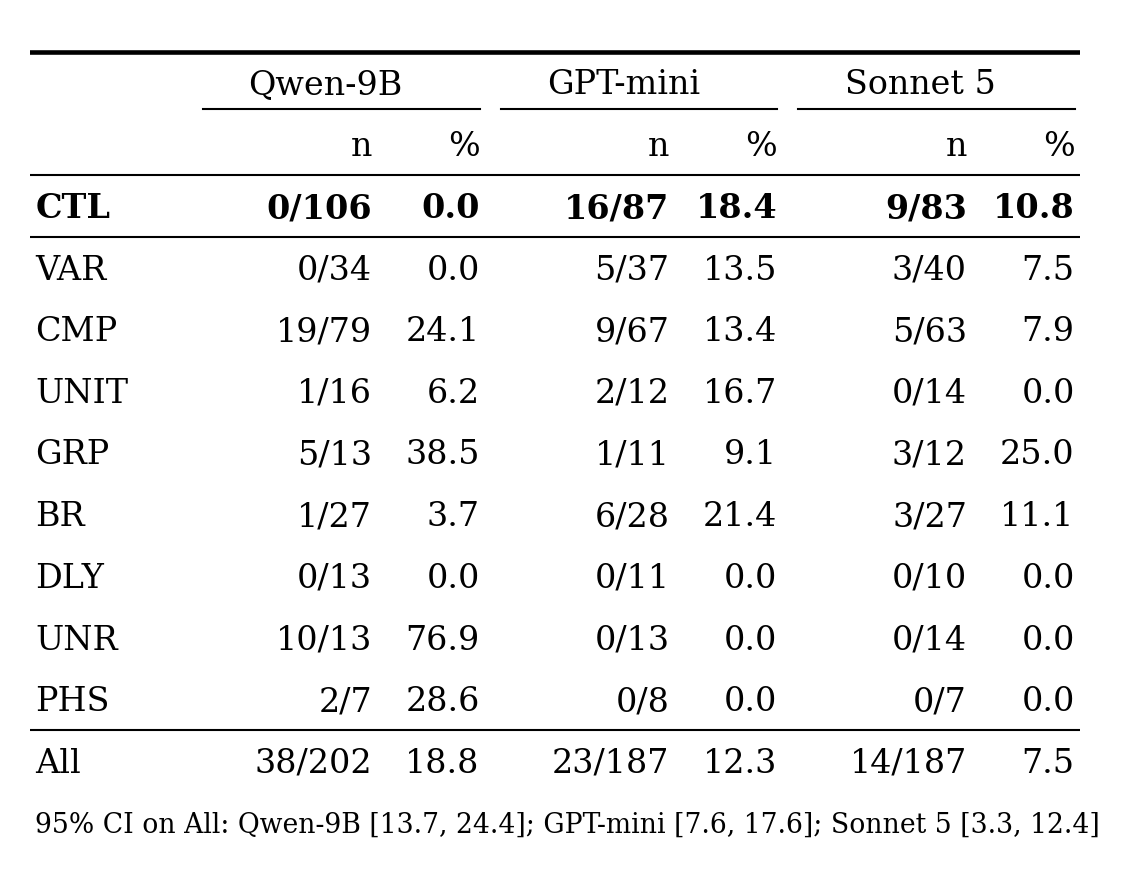
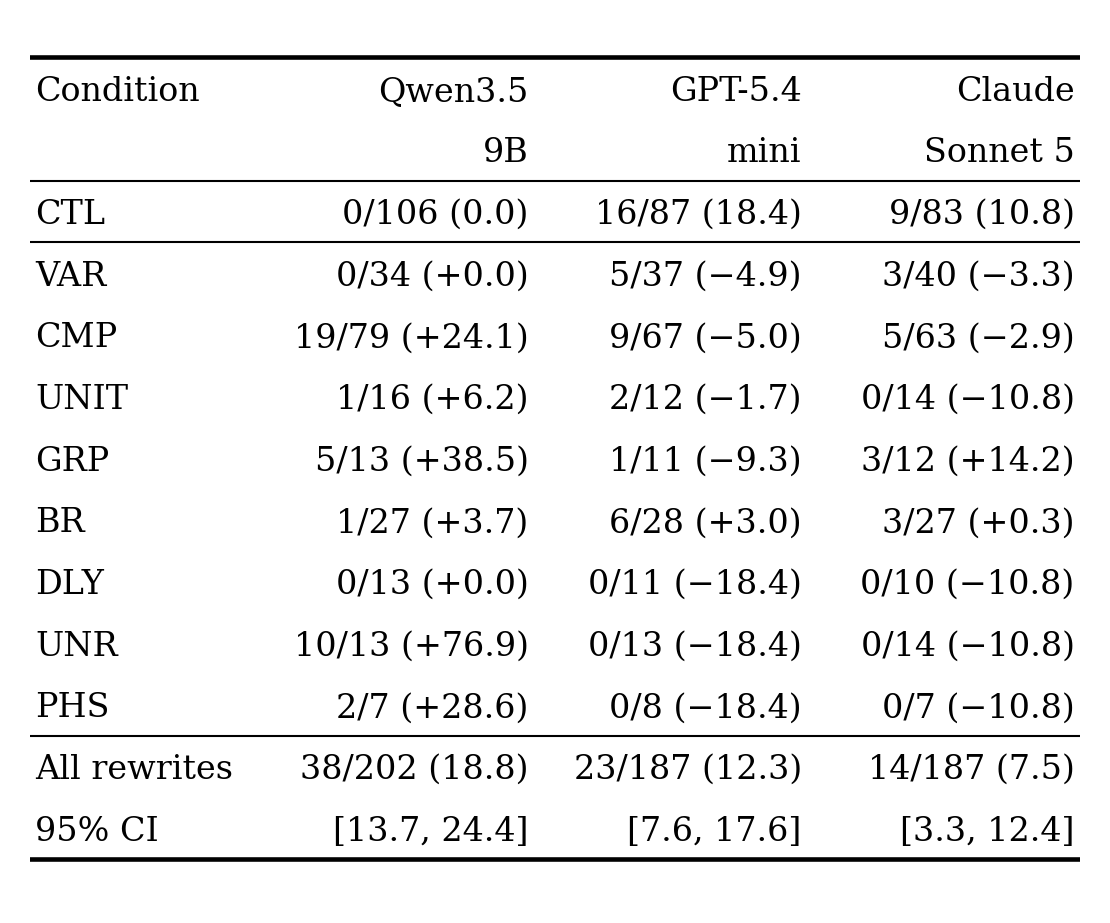
motivation: report each rewrite against the judge's own CTL rate
Table 1 asked the reader to hold CTL in their head and subtract it from every
row below.  Moon et al. (Findings of EACL 2026, arXiv:2505.16222) face the same
problem in their bias tables and solve it by printing each row's change from an
unbiased reference row, so follow that: the parenthesis now carries the change
in percentage points from that judge's CTL, and the counts still give the rate.

CTL and the total row keep the rate in their parenthesis -- CTL because it is
the reference, the total because the CI row underneath is an interval on the
rate, and a delta there would read as an interval on the delta.

Also widen the model names (Qwen3.5 9B, GPT-5.4 mini, Claude Sonnet 5) over two
header rows, name the stub column, and move the exact snapshots into the caption
with the note that neither hosted model exposes a temperature control.
table1.tex is now generated next to the preview so the two cannot drift.

Changed region(s): [[0.0306, 0.0311, 0.9802, 0.9632], [0.7045, 0.4039, 0.7351, 0.435]]

diff --git a/PerCom/6_Evaluation/motivation_judge/render_table.py b/PerCom/6_Evaluation/motivation_judge/render_table.py
@@ -15,29 +15,51 @@ HERE = os.path.dirname(os.path.abspath(__file__))
 IEEE_1COL_IN = 3.5      # IEEE conference single column
 IEEE_2COL_IN = 7.16     # full text width (table*)
 
-HDR = {"qwen": "Qwen-9B", "gpt": "GPT-mini", "claude": "Sonnet 5"}
+# two-line headers: model family on top, size/variant below, so no column outgrows a
+# single IEEE column
+HDR = {"qwen": ("Qwen3.5", "9B"), "gpt": ("GPT-5.4", "mini"),
+       "claude": ("Claude", "Sonnet 5")}
 ROWS = [("CTL", None), ("VAR", "var_rename"), ("CMP", "comparator_flip"), ("UNIT", "time_unit"),
         ("GRP", "exists_spelling"), ("BR", "branch_swap"), ("DLY", "delay_split"),
         ("UNR", "loop_unroll"), ("PHS", "phase_flag")]
 
 
-def cells(sm, t):
-    x = sm["accepted"]["overall"] if t is None else sm["accepted"]["by_type"][t]
+def cell(sm, t, minus):
+    """One judge, one condition. The cell carries the counts; the parenthesised value is the
+    percentage-point change from that judge's own CTL rate, following the convention of Moon et
+    al. (EACL Findings 2026), whose bias rows are read against an unbiased reference row. CTL is
+    that reference here, so its own parenthesis holds the rate itself."""
+    a = sm["accepted"]
+    x = a["overall"] if t is None or t == "__all__" else a["by_type"][t]
     k = x["control_rejected"] if t is None else x["rejected"]
     n = x["control_seeds"] if t is None else x["pairs"]
-    return f"{k}/{n}", f"{100 * k / n:.1f}"
+    rate = 100.0 * k / n
+    if t is None or t == "__all__":
+        return f"{k}/{n} ({rate:.1f})"
+    d = rate - 100.0 * a["overall"]["control_rate"]
+    sign = "+" if d >= 0 else minus
+    return f"{k}/{n} ({sign}{abs(d):.1f})"
 
 
-def render(width_in, fontsize, out, caption_width):
-    S = json.load(open(os.path.join(HERE, "results", "summary.json")))
+def table(S, minus="-"):
+    """Rows of (stub, [cell per judge]) plus the totals, shared by both renderers."""
     judges = list(S)
-    body = [(ab, [c for j in judges for c in cells(S[j], t)]) for ab, t in ROWS]
-    tot = []
-    for j in judges:
-        a = S[j]["accepted"]["overall"]
-        tot += [f"{a['rejected']}/{a['pairs']}", f"{100 * a['rate']:.1f}"]
+    body = [(ab, [cell(S[j], t, minus) for j in judges]) for ab, t in ROWS]
+    tot = [cell(S[j], "__all__", minus) for j in judges]
+    return judges, body, tot
 
-    nrow = len(body) + 4                       # header rows + total + CI note
+
+def ci_row(S):
+    return ["[{:.1f}, {:.1f}]".format(*[100 * v for v in S[j]["accepted"]["overall"]["ci95"]])
+            for j in S]
+
+
+def render(width_in, fontsize, out):
+    S = json.load(open(os.path.join(HERE, "results", "summary.json")))
+    judges, body, tot = table(S, minus="\u2212")
+    ci = ci_row(S)
+
+    nrow = len(body) + 5                       # header + total + CI
     rowh = fontsize * 1.85 / 72.0              # inches per row
     tabh = rowh * nrow
     fig_h = tabh + 0.10
@@ -48,55 +70,82 @@ def render(width_in, fontsize, out, caption_width):
     ax.axis("off")
     fp = {"fontsize": fontsize, "family": "serif"}
 
-    # column x positions: label left, then 6 right-aligned numeric columns
+    # stub column on the left, then one right-aligned column per judge
     x_lab = 0.005
-    lab_w, gw = 0.15, (1.0 - 0.15) / 3.0
-    right, group_mid, group_span = [], [], []
-    for i in range(3):
-        a, b = lab_w + i * gw, lab_w + (i + 1) * gw
-        right += [a + gw * 0.62, b - 0.005]
-        group_mid.append((a + b) / 2 - 0.01)
-        group_span.append((a + 0.015, b - 0.005))
+    lab_w, gw = 0.22, (1.0 - 0.22) / 3.0
+    right = [lab_w + (i + 1) * gw - 0.005 for i in range(3)]
 
-    y = nrow - 0.9
-    ax.plot([0, 1], [y + 0.55, y + 0.55], lw=1.1, color="k")          # \toprule
-    for m, name in zip(group_mid, (HDR[j] for j in judges)):
-        ax.text(m, y, name, ha="center", va="center", **fp)
-    y -= 1
-    for (a, b) in group_span:                                          # \cmidrule
-        ax.plot([a, b], [y + 0.62, y + 0.62], lw=0.5, color="k")
-    for r in right:
-        ax.text(r, y, "n" if right.index(r) % 2 == 0 else "%", ha="right", va="center", **fp)
-    y -= 1
+    y = nrow - 1.0
+    ax.plot([0, 1], [y + 0.55, y + 0.55], lw=1.1, color="k")           # \toprule
+    ax.text(x_lab, y, "Condition", ha="left", va="center", **fp)
+    for line in (0, 1):
+        for r, j in zip(right, judges):
+            ax.text(r, y, HDR[j][line], ha="right", va="center", **fp)
+        y -= 1
     ax.plot([0, 1], [y + 0.55, y + 0.55], lw=0.5, color="k")           # \midrule
 
-    for i, (ab, vals) in enumerate(body):
-        bold = ab == "CTL"
-        ax.text(x_lab, y, ab, ha="left", va="center",
-                fontweight="bold" if bold else "normal", **fp)
+    for ab, vals in body:
+        ax.text(x_lab, y, ab, ha="left", va="center", **fp)
         for r, v in zip(right, vals):
-            ax.text(r, y, v, ha="right", va="center",
-                    fontweight="bold" if bold else "normal", **fp)
-        if bold:
-            ax.plot([0, 1], [y - 0.45, y - 0.45], lw=0.5, color="k")
+            ax.text(r, y, v, ha="right", va="center", **fp)
+        if ab == "CTL":
+            ax.plot([0, 1], [y - 0.45, y - 0.45], lw=0.5, color="k")   # control sits apart
         y -= 1
 
     ax.plot([0, 1], [y + 0.55, y + 0.55], lw=0.5, color="k")
-    ax.text(x_lab, y, "All", ha="left", va="center", **fp)
-    for r, v in zip(right, tot):
-        ax.text(r, y, v, ha="right", va="center", **fp)
-    y -= 1
-    ci = "; ".join(f"{HDR[j]} [{100 * S[j]['accepted']['overall']['ci95'][0]:.1f}, "
-                   f"{100 * S[j]['accepted']['overall']['ci95'][1]:.1f}]" for j in judges)
-    ax.text(x_lab, y, "95% CI on All: " + ci, ha="left", va="center",
-            fontsize=fontsize - 1.6, family="serif")
-    ax.plot([0, 1], [y - 0.45, y - 0.45], lw=1.1, color="k")           # \bottomrule
+    for stub, vals in (("All rewrites", tot), ("95\\% CI", ci)):
+        ax.text(x_lab, y, stub.replace("\\", ""), ha="left", va="center", **fp)
+        for r, v in zip(right, vals):
+            ax.text(r, y, v, ha="right", va="center", **fp)
+        y -= 1
+    ax.plot([0, 1], [y + 0.55, y + 0.55], lw=1.1, color="k")           # \bottomrule
 
     fig.savefig(os.path.join(HERE, "results", out), dpi=300, bbox_inches="tight",
                 facecolor="white")
     print("wrote", out, f"({width_in}in, {fontsize}pt)")
 
 
+CAPTION = (
+    "Verdict reversal on programs each judge had already accepted. Each cell reports the "
+    "rewrites rejected over the accepted programs presented; the parenthesised value is the "
+    "change in percentage points from that judge's own CTL rate. CTL re-asks the identical "
+    "accepted program and carries no rewrite, so it is the reference row and its parenthesis "
+    "holds the rate itself, as does the All rewrites row, which the CI row refers to. CTL "
+    "bounds how much a judge moves with no edit at all. VAR renames "
+    "a variable, CMP mirrors a comparison, UNIT "
+    "changes the time unit, GRP respells a condition over a group of devices, BR negates the "
+    "guard and swaps the branches, DLY splits one delay into two, UNR unrolls a counted "
+    "periodic loop, and PHS replaces an integer phase with a boolean flag. Every rewrite is "
+    "certified behavior-preserving by the checker of Sec.~\\ref{sec:explorer}. The judges are "
+    "\\texttt{Qwen3.5-9B-fp8} served locally at temperature 0, and \\texttt{gpt-5.4-mini-2026-03-17} "
+    "and \\texttt{claude-sonnet-5} at low reasoning effort; neither hosted model exposes a "
+    "temperature control, which is why their CTL rates are not zero. Intervals are 95\\% "
+    "bootstrap CIs clustered by seed program.")
+
+
+def write_tex():
+    S = json.load(open(os.path.join(HERE, "results", "summary.json")))
+    judges, body, tot = table(S, minus="$-$")
+    ci = ci_row(S)
+    L = [r"\begin{table}[t]", r"\centering", r"\caption{" + CAPTION + "}", r"\label{tab:judge}",
+         r"\footnotesize", r"\setlength{\tabcolsep}{4pt}",
+         r"\begin{tabular}{l rrr}", r"\toprule",
+         "Condition & " + " & ".join(HDR[j][0] for j in judges) + r" \\",
+         " & " + " & ".join(HDR[j][1] for j in judges) + r" \\", r"\midrule"]
+    for ab, vals in body:
+        L.append(ab + " & " + " & ".join(vals) + r" \\")
+        if ab == "CTL":
+            L.append(r"\midrule")
+    L += [r"\midrule",
+          "All rewrites & " + " & ".join(tot) + r" \\",
+          r"95\% CI & " + " & ".join(ci) + r" \\",
+          r"\bottomrule", r"\end{tabular}", r"\end{table}"]
+    p = os.path.join(HERE, "results", "table1.tex")
+    open(p, "w").write("\n".join(L) + "\n")
+    print("wrote", p)
+
+
 if __name__ == "__main__":
-    render(IEEE_1COL_IN, 8, "table1_preview_1col.png", IEEE_1COL_IN)
-    render(IEEE_2COL_IN, 9, "table1_preview_2col.png", IEEE_2COL_IN)
+    write_tex()
+    render(IEEE_1COL_IN, 8, "table1_preview_1col.png")
+    render(IEEE_2COL_IN, 9, "table1_preview_2col.png")

diff --git a/PerCom/6_Evaluation/motivation_judge/results/table1.tex b/PerCom/6_Evaluation/motivation_judge/results/table1.tex
@@ -1,28 +1,27 @@
 \begin{table}[t]
 \centering
-\caption{Verdict reversal on programs each judge had already accepted. Each cell reports the rewrites rejected over the accepted programs presented, and the resulting rate. CTL re-asks the identical accepted program and carries no rewrite. VAR renames a variable, CMP mirrors a comparison, UNIT changes the time unit, GRP respells a condition over a group of devices, keeping the same meaning (`at least one device matches'), BR negates the guard and swaps the branches, DLY splits one delay into two, UNR unrolls a counted periodic loop, and PHS replaces an integer phase with a boolean flag. Intervals on the totals are clustered by seed program.}
+\caption{Verdict reversal on programs each judge had already accepted. Each cell reports the rewrites rejected over the accepted programs presented; the parenthesised value is the change in percentage points from that judge's own CTL rate. CTL re-asks the identical accepted program and carries no rewrite, so it is the reference row and its parenthesis holds the rate itself, as does the All rewrites row, which the CI row refers to. CTL bounds how much a judge moves with no edit at all. VAR renames a variable, CMP mirrors a comparison, UNIT changes the time unit, GRP respells a condition over a group of devices, BR negates the guard and swaps the branches, DLY splits one delay into two, UNR unrolls a counted periodic loop, and PHS replaces an integer phase with a boolean flag. Every rewrite is certified behavior-preserving by the checker of Sec.~\ref{sec:explorer}. The judges are \texttt{Qwen3.5-9B-fp8} served locally at temperature 0, and \texttt{gpt-5.4-mini-2026-03-17} and \texttt{claude-sonnet-5} at low reasoning effort; neither hosted model exposes a temperature control, which is why their CTL rates are not zero. Intervals are 95\% bootstrap CIs clustered by seed program.}
 \label{tab:judge}
 \footnotesize
-\setlength{\tabcolsep}{3.5pt}
-\begin{tabular}{l rr rr rr}
+\setlength{\tabcolsep}{4pt}
+\begin{tabular}{l rrr}
 \toprule
- & \multicolumn{2}{c}{Qwen-9B} & \multicolumn{2}{c}{GPT-mini} & \multicolumn{2}{c}{Sonnet 5}\\
-\cmidrule(lr){2-3}\cmidrule(lr){4-5}\cmidrule(lr){6-7}
- & n & \% & n & \% & n & \% \\
+Condition & Qwen3.5 & GPT-5.4 & Claude \\
+ & 9B & mini & Sonnet 5 \\
 \midrule
-CTL & 0/106 & 0.0 & 16/87 & 18.4 & 9/83 & 10.8 \\
+CTL & 0/106 (0.0) & 16/87 (18.4) & 9/83 (10.8) \\
 \midrule
-VAR & 0/34 & 0.0 & 5/37 & 13.5 & 3/40 & 7.5 \\
-CMP & 19/79 & 24.1 & 9/67 & 13.4 & 5/63 & 7.9 \\
-UNIT & 1/16 & 6.2 & 2/12 & 16.7 & 0/14 & 0.0 \\
-GRP & 5/13 & 38.5 & 1/11 & 9.1 & 3/12 & 25.0 \\
-BR & 1/27 & 3.7 & 6/28 & 21.4 & 3/27 & 11.1 \\
-DLY & 0/13 & 0.0 & 0/11 & 0.0 & 0/10 & 0.0 \\
-UNR & 10/13 & 76.9 & 0/13 & 0.0 & 0/14 & 0.0 \\
-PHS & 2/7 & 28.6 & 0/8 & 0.0 & 0/7 & 0.0 \\
+VAR & 0/34 (+0.0) & 5/37 ($-$4.9) & 3/40 ($-$3.3) \\
+CMP & 19/79 (+24.1) & 9/67 ($-$5.0) & 5/63 ($-$2.9) \\
+UNIT & 1/16 (+6.2) & 2/12 ($-$1.7) & 0/14 ($-$10.8) \\
+GRP & 5/13 (+38.5) & 1/11 ($-$9.3) & 3/12 (+14.2) \\
+BR & 1/27 (+3.7) & 6/28 (+3.0) & 3/27 (+0.3) \\
+DLY & 0/13 (+0.0) & 0/11 ($-$18.4) & 0/10 ($-$10.8) \\
+UNR & 10/13 (+76.9) & 0/13 ($-$18.4) & 0/14 ($-$10.8) \\
+PHS & 2/7 (+28.6) & 0/8 ($-$18.4) & 0/7 ($-$10.8) \\
 \midrule
-All rewrites & 38/202 & 18.8 & 23/187 & 12.3 & 14/187 & 7.5 \\
-\multicolumn{7}{l}{\scriptsize 95\% CI on all rewrites: Qwen-9B [13.7, 24.4]; GPT-mini [7.6, 17.6]; Sonnet 5 [3.3, 12.4]}\\
+All rewrites & 38/202 (18.8) & 23/187 (12.3) & 14/187 (7.5) \\
+95\% CI & [13.7, 24.4] & [7.6, 17.6] & [3.3, 12.4] \\
 \bottomrule
 \end{tabular}
 \end{table}
